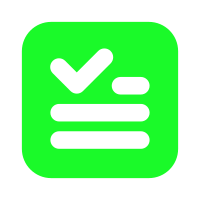
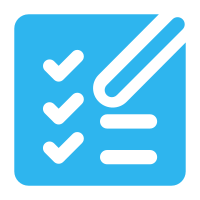
V1.1.2 更换icon

diff --git a/js/index.js b/js/index.js
@@ -250,7 +250,7 @@ $(function () {
         修改：双击 任务
 数据持久化：本地浏览器缓存（非云端）
 
-博客园：https://www.cnblogs.com/xiangjianan`
+博客园：https://w&nbsp;ww.cnblogs.com/xiangjianan`
         alert(msg);
     });
 });
